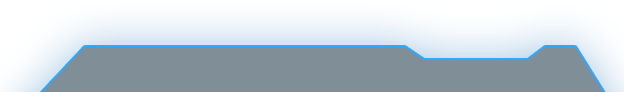
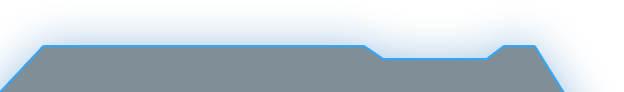
图片优化，并对代码进行修改。

Changed region(s): [[0.7612, 0.4565, 1.0, 1.0], [0.0, 0.4565, 0.1522, 1.0], [0.5785, 0.4783, 0.7003, 0.6522]]

diff --git a/src/App.vue b/src/App.vue
@@ -664,7 +664,7 @@ div.legendContainer div.legend span.crowdInfoNone {
 
 .top-title {
   flex: 0 0 122px;
-  width: 558px;
+  width: 533px;
   display: flex;
   justify-content: center;
   flex-wrap: nowrap;
@@ -672,12 +672,10 @@ div.legendContainer div.legend span.crowdInfoNone {
 
 .top-title.left {
   background: url(./assets/left_up.png) no-repeat center;
-  background-position: -25px 0px;
 }
 
 .top-title.right {
   background: url(./assets/right_up.png) no-repeat center;
-  background-position: 25px 0px;
 }
 
 .top-title>.text {
@@ -708,13 +706,11 @@ div.legendContainer div.legend span.crowdInfoNone {
 
 .bottom-title.left {
   background: url(./assets/left_down.png) no-repeat center;
-  background-position: -40px;
 }
 
 .bottom-title.right {
   justify-content: flex-end;
   background: url(./assets/right_down.png) no-repeat center;
-  background-position: 0px;
 }
 
 .bottom-title>.text {
